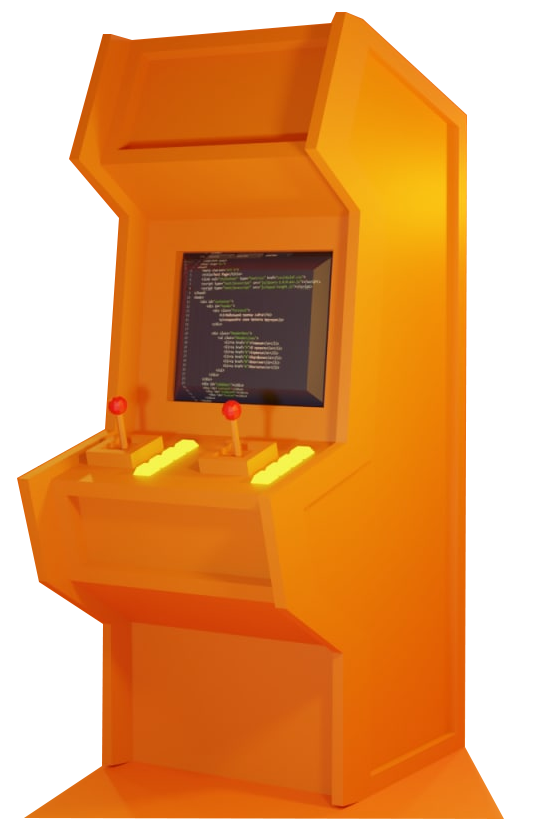
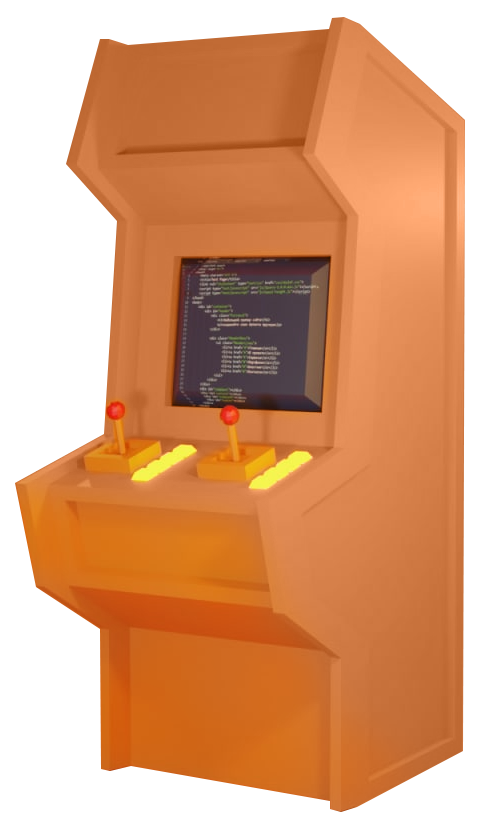
feat: add image for fourth slide

diff --git a/src/views/landing/cLanding.vue b/src/views/landing/cLanding.vue
@@ -71,7 +71,12 @@
       <div class="slide first-slide" v-if="activeSlide == 1">
         <header class="first-slide__header">
           <h2 class="first-slide__header-logo">Crepiks</h2>
-          <button class="first-slide__header-button">Войти</button>
+          <button
+            class="first-slide__header-button"
+            @click="$router.push('/app/home')"
+          >
+            Войти
+          </button>
         </header>
         <div class="first-slide__welcome">
           <div class="first-slide__welcome-heading">
@@ -123,7 +128,7 @@
           </button>
         </div>
         <img
-          class="slide__image"
+          class="slide__image slide__image-third"
           src="@/assets/images/landingSlide3.png"
           alt="Интерактивность"
         />
@@ -138,16 +143,15 @@
           <p class="slide-text__paragraph">
             Нет, это не шутка. Курсы на Crepiks Academy стоят не дороже двух
             чашек кофе или трех поездок на такси. Почему так? Дело в том что, мы
-            хотим стремимся сделать обучение программирование доступными
-            каждому.
+            стремимся сделать обучение программирование доступными каждому.
           </p>
           <button class="slide-text__button slide-text__button-fourth">
             Попробовать
           </button>
         </div>
         <img
-          class="slide__image"
-          src="@/assets/images/landingSlide3.png"
+          class="slide__image slide__image-fourth"
+          src="@/assets/images/landingSlide4.png"
           alt="Интерактивность"
         />
       </div>
@@ -364,15 +368,17 @@ export default {
   height: 100vh;
   display: flex;
   flex-direction: row;
-  justify-content: space-between;
+  justify-content: flex-start;
   align-items: center;
 
   &-text {
+    margin-right: 70px;
     width: 50%;
     display: flex;
     flex-direction: column;
     justify-content: center;
     align-items: flex-start;
+    z-index: 3;
 
     &__heading {
       margin-bottom: 20px;
@@ -423,7 +429,20 @@ export default {
   }
 
   &__image {
-    height: 700px;
+    position: absolute;
+    right: 0;
+    width: 50%;
+
+    &-third {
+      right: 5%;
+      height: 700px;
+      width: auto;
+      transform: rotate(5deg);
+    }
+
+    &-fourth {
+      width: 70%;
+    }
   }
 
   &__heading {
